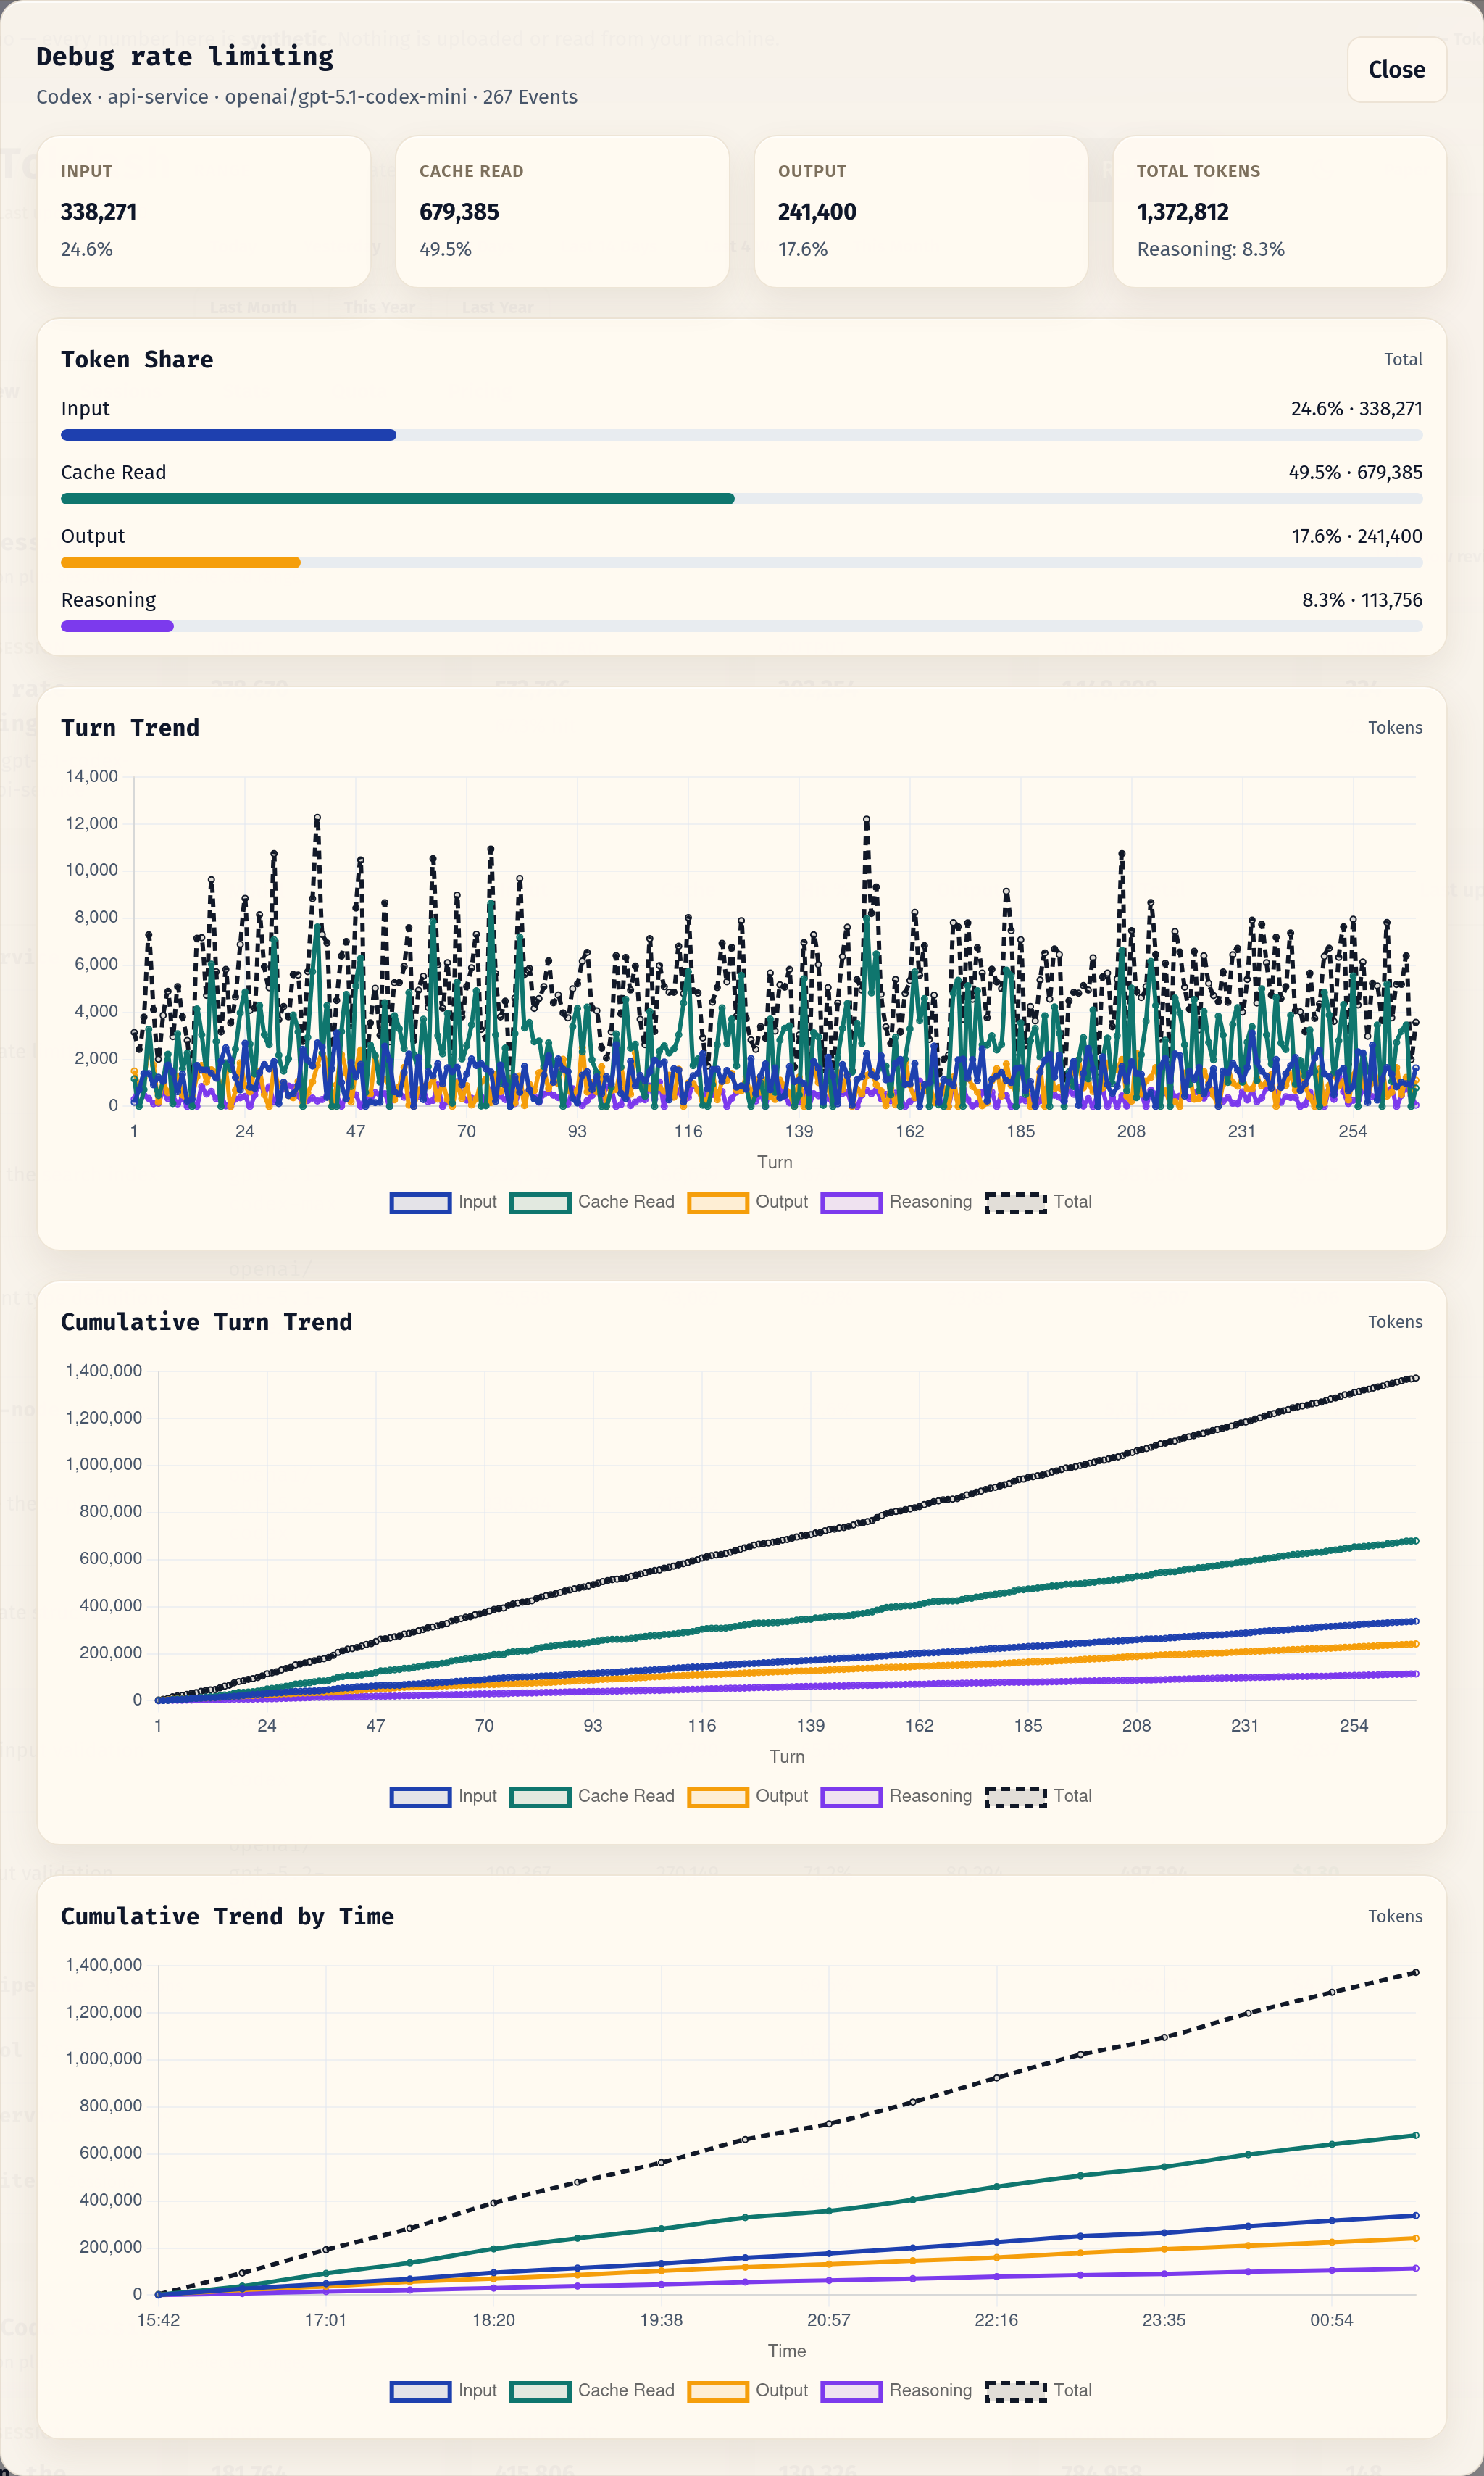
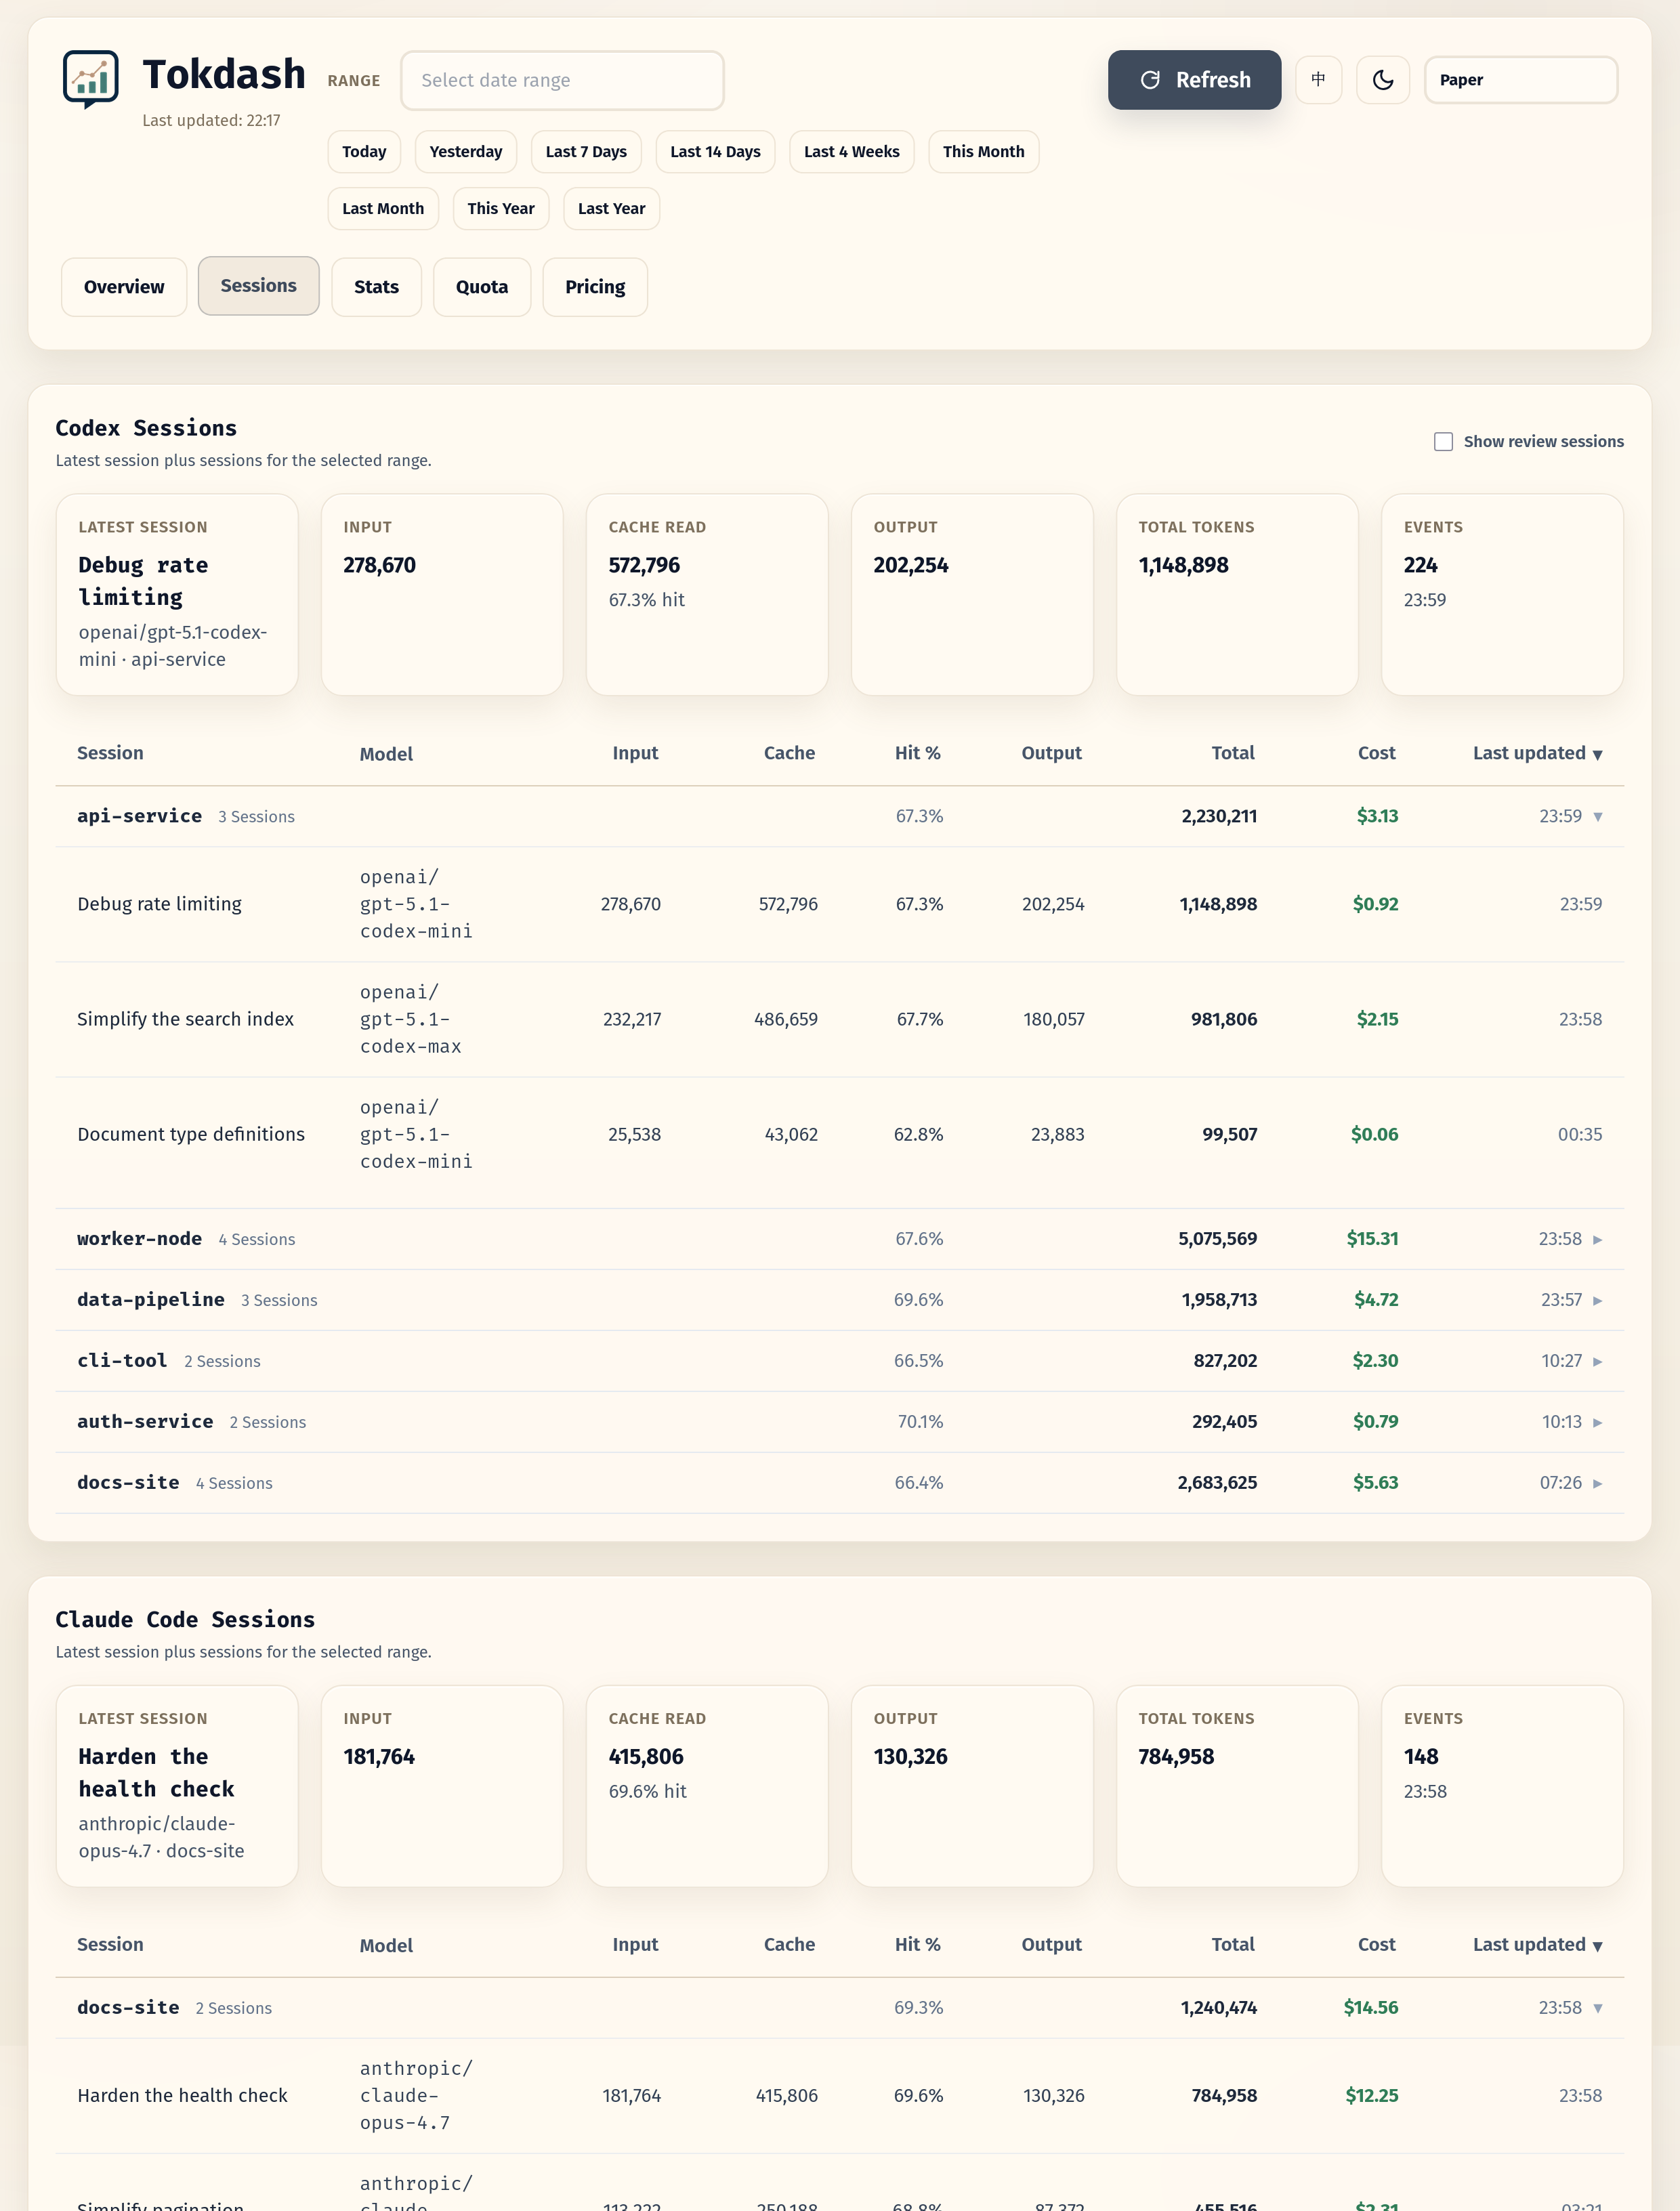
update readme

diff --git a/README.md b/README.md
@@ -45,10 +45,9 @@
 ## Table of Contents
 
 - [Features](#features)
-- [Live demo](#live-demo)
 - [Supported clients](docs/SUPPORTED_CLIENTS.md)
-- [Platform support](#platform-support)
 - [Quick start](#quick-start)
+  - [Platform support](#platform-support)
 - [Configuration](#configuration)
 - [Privacy \& security](#privacy--security)
 - [API (local)](#api-local)
@@ -63,13 +62,11 @@
 
 - **Exact token counts**: Input/Output/Cache token breakdowns
 - **Statusline integration** *[new]*: drop a live token-usage indicator into Claude Code's statusline (or any agent that can hit a local HTTP endpoint) — see [Statusline integration](#statusline-integration)
-- **Custom date ranges**: Flatpickr date picker + quick range buttons (Today, Last 7 Days, This Month, etc.)
+- **Custom date ranges**: Flatpickr date picker + quick range buttons
 - **Contribution calendar**: 2D heatmap + 3D isometric view with Tokens/Cost/Messages metrics
-- **Session explorer**: per-session drill-down for Codex, Claude Code, OpenCode, and Pi
+- **Session explorer**: per-session drill-down
 - **Quota tab** *[new]*: subscription window bars with reset countdowns for Codex, Claude Code, and Antigravity. Codex windows work out of the box from local logs; Codex reset credits, metered features, and all Claude/Antigravity quota need opt-in [live polling](#quota-tracking-optional)
-- **10 style themes**: Elevated, Classic, Vibrant, Midnight, Paper, Liquid, Terminal, Brutalist, Arcade, Studio
-- **Light & dark mode**: auto-detects system preference, manual toggle
-- **PWA support**: installable as a progressive web app
+- **Themes and app polish**: 10 style themes, light/dark mode, and PWA install support
 
 <p align="center">
   <b>Overview</b><br />
@@ -78,15 +75,21 @@
   </a>
 </p>
 <p align="center">
-  <b>Session detail</b><br />
+  <b>Sessions</b><br />
   <a href="https://tokdash.github.io/demo/">
-    <img src="https://raw.githubusercontent.com/JingbiaoMei/Tokdash/main/docs/assets/demo-session-en.png" alt="Tokdash session detail - click for live demo" width="720" />
+    <img src="https://raw.githubusercontent.com/JingbiaoMei/Tokdash/main/docs/assets/demo-session-en.png" alt="Tokdash sessions view - click for live demo" width="860" />
   </a>
 </p>
 <p align="center">
-  <b>Usage heatmap</b><br />
+  <b>Monthly usage heatmap</b><br />
   <a href="https://tokdash.github.io/demo/">
-    <img src="https://raw.githubusercontent.com/JingbiaoMei/Tokdash/main/docs/assets/demo-heatmap-en.png" alt="Tokdash usage heatmap - click for live demo" width="860" />
+    <img src="https://raw.githubusercontent.com/JingbiaoMei/Tokdash/main/docs/assets/demo-heatmap-en.png" alt="Tokdash monthly usage heatmap - click for live demo" width="860" />
+  </a>
+</p>
+<p align="center">
+  <b>Yearly usage heatmap</b><br />
+  <a href="https://tokdash.github.io/demo/">
+    <img src="https://raw.githubusercontent.com/JingbiaoMei/Tokdash/main/docs/assets/demo-heatmap-year-en.png" alt="Tokdash yearly usage heatmap - click for live demo" width="860" />
   </a>
 </p>
 <p align="center">
@@ -96,38 +99,19 @@
   </a>
 </p>
 <p align="center">
-  <b>Codex quota close-up</b><br />
+  <b>Codex quota and reset credits</b><br />
   <a href="https://tokdash.github.io/demo/">
-    <img src="https://raw.githubusercontent.com/JingbiaoMei/Tokdash/main/docs/assets/demo-quota-codex-en.png" alt="Tokdash Codex quota close-up - click for live demo" width="440" />
+    <img src="https://raw.githubusercontent.com/JingbiaoMei/Tokdash/main/docs/assets/demo-quota-codex-en.png" alt="Tokdash Codex quota and reset credits - click for live demo" width="440" />
   </a>
 </p>
 
-## Live demo
+## Quick start
 
-A static demo of the current dashboard is hosted at
-**[tokdash.github.io/demo](https://tokdash.github.io/demo/)** — no install required.
-(The project home page is **[tokdash.github.io](https://tokdash.github.io/)**.)
-
-The demo runs the unmodified Tokdash frontend against an in-browser shim that
-returns deterministic, fully synthetic data. You can:
-
-- switch between Overview / Sessions / Stats / Pricing tabs,
-- pick any date range (or the Today / 7-day / 30-day shortcuts),
-- toggle light/dark and all 10 style themes,
-- drill into a synthetic Codex / Claude Code / OpenCode session,
-- browse the read-only pricing database.
-
-Source for the demo lives at
-[tokdash/tokdash.github.io](https://github.com/tokdash/tokdash.github.io).
-Nothing is uploaded; nothing is read from your machine.
-
-## Platform support
+### Platform support
 
 - **Linux (including WSL2):** supported
-- **macOS:** experimental — `tokdash serve` and `tokdash setup` (per-user launchd LaunchAgent) are implemented, and the full test suite now runs on macOS CI (including the Claude quota Keychain integration test). Real-Mac validation of the launchd service flow is still pending; treat native macOS as experimental until confirmed.
-- **Windows (native):** experimental — foreground `tokdash serve` and `tokdash setup` via Windows Task Scheduler are available in `v1.0.5+`, with Windows CI and smoke-test coverage. Broader real-world Task Scheduler validation is still ongoing. WSL2 remains the most fully verified Windows path. See [`docs/WINDOWS_SUPPORT_PLAN.md`](docs/WINDOWS_SUPPORT_PLAN.md) for the tiered rollout and current status.
-
-## Quick start
+- **macOS:** supported and verified, including `tokdash setup`, launchd, and Claude quota Keychain integration
+- **Windows (native):** experimental; WSL2 remains the recommended Windows path. See [`docs/WINDOWS_SUPPORT_PLAN.md`](docs/WINDOWS_SUPPORT_PLAN.md).
 
 ### Prerequisites
 
@@ -183,7 +167,21 @@ tokdash doctor
 `doctor` checks the runtime, background service, configured port, data paths, and update-check
 status. Use `tokdash doctor --json` for automation.
 
-### Existing installs (Migration from before V1.0)
+### Update or remove
+
+```bash
+tokdash update       # upgrade the managed runtime and restart the service when possible
+tokdash uninstall    # reverse exactly what setup created; keeps usage history by default
+```
+
+`update` only drives install methods Tokdash can safely manage. If your runtime was installed
+by a package manager Tokdash does not own, it prints the exact manual guidance instead of
+mutating that environment. For managed runtimes, `update` reports the Tokdash version before
+and after the upgrade; if the version is unchanged, it says Tokdash is already at that version
+instead of implying a new package was installed.
+
+<details>
+<summary>Existing installs: migration from before v1.0</summary>
 
 If you installed Tokdash before the onboarding flow, upgrade first:
 
@@ -217,18 +215,7 @@ This keeps your usage history under `~/.tokdash`, rewrites the user service to r
 upgrade that managed venv and restart the service. If you installed with pipx, you can
 instead keep the pipx runtime and upgrade with `tokdash update` or `pipx upgrade tokdash`.
 
-### Update or remove
-
-```bash
-tokdash update       # upgrade the managed runtime and restart the service when possible
-tokdash uninstall    # reverse exactly what setup created; keeps usage history by default
-```
-
-`update` only drives install methods Tokdash can safely manage. If your runtime was installed
-by a package manager Tokdash does not own, it prints the exact manual guidance instead of
-mutating that environment. For managed runtimes, `update` reports the Tokdash version before
-and after the upgrade; if the version is unchanged, it says Tokdash is already at that version
-instead of implying a new package was installed.
+</details>
 
 ### Remote access
 

diff --git a/README_CN.md b/README_CN.md
@@ -44,10 +44,9 @@
 ## 目录
 
 - [功能特性](#功能特性)
-- [在线 Demo](#在线-demo)
 - [已支持客户端](docs/SUPPORTED_CLIENTS.md)
-- [平台支持](#平台支持)
 - [快速开始](#快速开始)
+  - [平台支持](#平台支持)
 - [配置](#配置)
 - [隐私与安全](#隐私与安全)
 - [API（本地）](#api本地)
@@ -62,12 +61,10 @@
 
 - **精确 Token 统计**：输入 / 输出 / 缓存 Token 明细
 - **状态栏集成** *[新]*：把实时 Token 使用量挂到 Claude Code（或任何能访问本地 HTTP 端点的 Agent）的状态栏中 — 见[状态栏集成](#状态栏集成statusline-integration)
-- **自定义日期范围**：Flatpickr 日期选择器 + 快捷按钮（今天、最近 7 天、本月等）
+- **自定义日期范围**：Flatpickr 日期选择器 + 快捷按钮
 - **贡献日历**：2D 热力图 + 3D 等距视图，支持 Tokens / Cost / Messages 切换
-- **会话浏览器**：Codex、Claude Code、OpenCode、Pi 的逐会话下钻
-- **10 款样式主题**：Elevated、Classic、Vibrant、Midnight、Paper、Liquid、Terminal、Brutalist、Arcade、Studio
-- **明暗模式**：自动跟随系统偏好，支持手动切换
-- **PWA 支持**：可作为渐进式 Web 应用安装
+- **会话浏览器**：逐会话下钻
+- **主题与应用体验**：10 款样式主题、明暗模式与 PWA 安装支持
 
 <p align="center">
   <b>总览</b><br />
@@ -76,15 +73,21 @@
   </a>
 </p>
 <p align="center">
-  <b>会话详情</b><br />
+  <b>会话列表</b><br />
   <a href="https://tokdash.github.io/demo/">
-    <img src="https://raw.githubusercontent.com/JingbiaoMei/Tokdash/main/docs/assets/demo-session-cn.png" alt="Tokdash 会话详情 — 点击体验在线 Demo" width="720" />
+    <img src="https://raw.githubusercontent.com/JingbiaoMei/Tokdash/main/docs/assets/demo-session-cn.png" alt="Tokdash 会话列表 — 点击体验在线 Demo" width="860" />
   </a>
 </p>
 <p align="center">
-  <b>使用热力图</b><br />
+  <b>月度使用热力图</b><br />
   <a href="https://tokdash.github.io/demo/">
-    <img src="https://raw.githubusercontent.com/JingbiaoMei/Tokdash/main/docs/assets/demo-heatmap-cn.png" alt="Tokdash 使用热力图 — 点击体验在线 Demo" width="860" />
+    <img src="https://raw.githubusercontent.com/JingbiaoMei/Tokdash/main/docs/assets/demo-heatmap-cn.png" alt="Tokdash 月度使用热力图 — 点击体验在线 Demo" width="860" />
+  </a>
+</p>
+<p align="center">
+  <b>年度使用热力图</b><br />
+  <a href="https://tokdash.github.io/demo/">
+    <img src="https://raw.githubusercontent.com/JingbiaoMei/Tokdash/main/docs/assets/demo-heatmap-year-cn.png" alt="Tokdash 年度使用热力图 — 点击体验在线 Demo" width="860" />
   </a>
 </p>
 <p align="center">
@@ -94,40 +97,19 @@
   </a>
 </p>
 <p align="center">
-  <b>Codex 额度局部放大</b><br />
+  <b>Codex 额度与重置额度</b><br />
   <a href="https://tokdash.github.io/demo/">
-    <img src="https://raw.githubusercontent.com/JingbiaoMei/Tokdash/main/docs/assets/demo-quota-codex-cn.png" alt="Tokdash Codex 额度局部放大 — 点击体验在线 Demo" width="440" />
+    <img src="https://raw.githubusercontent.com/JingbiaoMei/Tokdash/main/docs/assets/demo-quota-codex-cn.png" alt="Tokdash Codex 额度与重置额度 — 点击体验在线 Demo" width="440" />
   </a>
 </p>
 
-## 在线 Demo
+## 快速开始
 
-仪表盘的静态在线版本：**[tokdash.github.io/demo](https://tokdash.github.io/demo/)**，
-无需安装即可体验。（项目官网为 **[tokdash.github.io](https://tokdash.github.io/)**。）
-
-Demo 使用未经修改的 Tokdash 前端，配合浏览器内的 Mock 层返回确定性的合成数据。
-你可以：
-
-- 切换 Overview / Sessions / Stats / Pricing 各页签，
-- 选择任意日期范围（或 Today / 最近 7 天 / 最近 30 天 等快捷按钮），
-- 在浅色 / 深色模式与全部 10 款主题之间切换，
-- 进入 Codex / Claude Code / OpenCode 的合成会话查看明细，
-- 浏览只读的定价数据库。
-
-Demo 源码：[tokdash/tokdash.github.io](https://github.com/tokdash/tokdash.github.io)。
-不会上传任何数据，也不会读取你本地的任何文件。
-
-## 平台支持
+### 平台支持
 
 - **Linux（含 WSL2）**：支持
-- **macOS**：实验性支持 —— `tokdash serve` 与 `tokdash setup`（用户级 launchd LaunchAgent）均已实现，完整测试套件现已在 macOS CI 上运行（含 Claude 额度钥匙串集成测试）。launchd 后台服务流程仍待真实 Mac 环境验证；在确认之前请按实验性支持看待。
-- **Windows（原生）**：实验性支持 —— `v1.0.5+` 已支持前台 `tokdash serve`，以及通过
-  Windows 任务计划程序（Task Scheduler）运行的 `tokdash setup` 后台服务，并已有 Windows CI
-  与基础 smoke test 覆盖。更广泛的真实 Task Scheduler 使用场景仍在验证中；WSL2 仍是 Windows
-  上验证最完整的路径。分阶段计划与当前状态见
-  [`docs/WINDOWS_SUPPORT_PLAN.md`](docs/WINDOWS_SUPPORT_PLAN.md)（英文）。
-
-## 快速开始
+- **macOS**：支持并已验证，包括 `tokdash setup`、launchd 与 Claude 额度钥匙串集成
+- **Windows（原生）**：实验性支持；Windows 上仍推荐 WSL2。见 [`docs/WINDOWS_SUPPORT_PLAN.md`](docs/WINDOWS_SUPPORT_PLAN.md)（英文）。
 
 ### 前置要求
 
@@ -181,7 +163,19 @@ tokdash doctor
 `doctor` 会检查运行时、后台服务、配置端口、数据路径以及更新检查状态。自动化场景可使用
 `tokdash doctor --json`。
 
-### 既有安装 (迁移到 V1.0)
+### 更新或移除
+
+```bash
+tokdash update       # 升级受管运行时，并在可能时重启服务
+tokdash uninstall    # 精确撤销 setup 创建的内容；默认保留使用历史
+```
+
+`update` 只会驱动 Tokdash 能安全管理的安装方式。如果当前运行时来自 Tokdash 不拥有的包管理器，
+它会打印明确的手动升级建议，而不是修改该环境。对于受管运行时，`update` 会显示升级前后的
+Tokdash 版本；如果版本没有变化，会明确说明 Tokdash 已经在该版本，而不是让人误以为安装了新包。
+
+<details>
+<summary>既有安装：从 v1.0 前迁移</summary>
 
 如果你是在 onboarding 流程加入前安装的 Tokdash，请先升级：
 
@@ -214,16 +208,7 @@ tokdash doctor
 受管 venv 并重启服务。如果你使用的是 pipx 安装，也可以继续使用 pipx 运行时，并通过
 `tokdash update` 或 `pipx upgrade tokdash` 升级。
 
-### 更新或移除
-
-```bash
-tokdash update       # 升级受管运行时，并在可能时重启服务
-tokdash uninstall    # 精确撤销 setup 创建的内容；默认保留使用历史
-```
-
-`update` 只会驱动 Tokdash 能安全管理的安装方式。如果当前运行时来自 Tokdash 不拥有的包管理器，
-它会打印明确的手动升级建议，而不是修改该环境。对于受管运行时，`update` 会显示升级前后的
-Tokdash 版本；如果版本没有变化，会明确说明 Tokdash 已经在该版本，而不是让人误以为安装了新包。
+</details>
 
 ### 远程访问
 